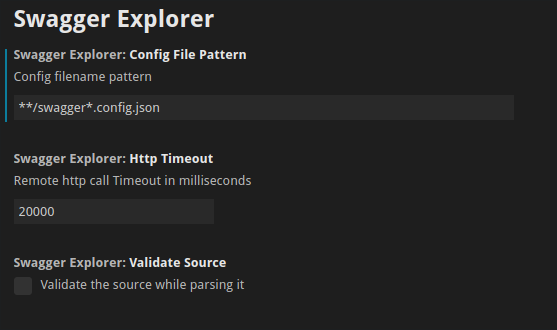
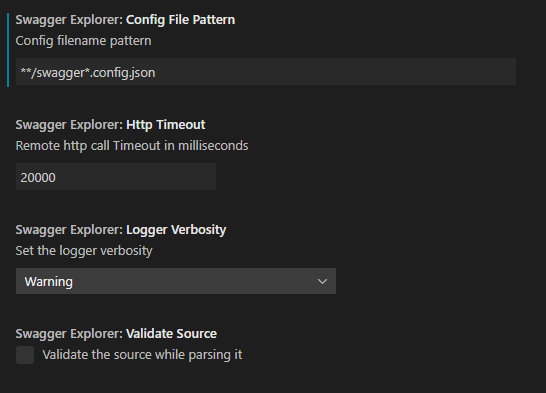
some better things
Sorting some tree lists

This commit adds sorting feature for Dto list, Ep list and paths, it resolves the issue #17
changelog updates

future version

logger verbosity implementation

changelog

settings picture and readme

Changed region(s): [[0.0, 0.4242, 0.6227, 0.9394], [0.0, 0.0303, 0.467, 0.3939]]

diff --git a/src/utils/Logger.ts b/src/utils/Logger.ts
@@ -1,12 +1,21 @@
 import * as vs from "vscode";
 
+const configValues = ["Error", "Warning", "Info", "Debug"] as const;
+type cfgLogValues = typeof configValues[number];
+
+function toNumber(value: cfgLogValues): number {
+	return Math.abs(configValues.indexOf(value)); // if index is -1 then use the value 1 as default;
+}
+
 export class Logger {
-	static readonly INFO: "INFO" = "INFO";
-	static readonly WARN: "WARN" = "WARN";
-	static readonly ERR: "ERR" = "ERR";
+	static readonly INFO: typeof configValues[0] = configValues[0];
+	static readonly WARN: typeof configValues[1] = configValues[1];
+	static readonly ERR: typeof configValues[2] = configValues[2];
+	static readonly DEBUG: typeof configValues[3] = configValues[3];
 
 	private static loggerInstance: Logger;
 	private outputChannel: vs.OutputChannel;
+
 	private constructor() {
 		this.outputChannel = vs.window.createOutputChannel("Swagger Explorer");
 		this.outputChannel.show(true);
@@ -18,12 +27,14 @@ export class Logger {
 		return Logger.loggerInstance;
 	}
 
-	Log(
-		message: string,
-		Level: typeof Logger.INFO | typeof Logger.ERR | typeof Logger.WARN = Logger.INFO,
-		newline: boolean = false
-	) {
+	Log(message: string, Level: cfgLogValues, newline: boolean = false) {
 		const msg = `${message}`;
+		const verbosity = vs.workspace.getConfiguration("swaggerExplorer").get<cfgLogValues>("loggerVerbosity") ?? "Warning";
+		if (toNumber(verbosity) < toNumber(Level)) {
+			console.log(msg);
+			return;
+		}
+
 		try {
 			if (newline) {
 				this.outputChannel.appendLine(msg);

diff --git a/src/swagger/TreeDataProvider.ts b/src/swagger/TreeDataProvider.ts
@@ -4,7 +4,7 @@ import { TreeItemProject } from "./TreeItem.project";
 import { CacheManager } from "../cache/manager";
 import { Logger } from "../utils/Logger";
 import { TreeItemConfig } from "./TreeItem.config";
-import { TreeItemSource } from "./TreeItem.source";
+
 export class SwaggerTreeDataProvider implements vscode.TreeDataProvider<TreeItemBase> {
 	private roots: TreeItemBase[] = [];
 	private requireReload: boolean = true;
@@ -36,7 +36,7 @@ export class SwaggerTreeDataProvider implements vscode.TreeDataProvider<TreeItem
 		if (!(arg0 instanceof TreeItemProject) && !(arg0 instanceof TreeItemConfig)) {
 			return;
 		}
-		let config: TreeItemConfig | undefined = undefined;
+		let config: TreeItemConfig | undefined;
 		if (arg0 instanceof TreeItemProject) {
 			await arg0.refreshChildren();
 			if (arg0.CfgFiles.length === 1) {
@@ -65,7 +65,7 @@ export class SwaggerTreeDataProvider implements vscode.TreeDataProvider<TreeItem
 		if (type == null) {
 			return;
 		}
-		let path: string | undefined = undefined;
+		let path: string | undefined;
 		if (type === "Remote") {
 			path = await vscode.window.showInputBox({
 				prompt: "What is the " + (type === "Remote" ? "URL" : "path") + " of source?"

diff --git a/src/swagger/TreeItem.section.ep.ts b/src/swagger/TreeItem.section.ep.ts
@@ -2,7 +2,7 @@ import { TreeItemBase, ContextValues } from "./TreeItem.base";
 import { OpenAPIV3 } from "openapi-types";
 import { TreeItemCollapsibleState } from "vscode";
 import { TreeItemTag } from "./TreeItem.tag";
-import { uniq } from "lodash";
+import { uniq, sortBy } from "lodash";
 import { extractTagsFromOperations } from "../utils/Doc";
 import * as path from "path";
 import { currentExtensionPath } from "../config/Config";
@@ -38,7 +38,7 @@ export class TreeItemSectionEP extends TreeItemBase {
 				return new TreeItemTag(this, this.doc, f);
 			}) || [];
 
-		tags = tags.concat(tagStr.map(s => new TreeItemTag(this, this.doc, { name: s, description: s })));
+		tags = sortBy(tags.concat(tagStr.map(s => new TreeItemTag(this, this.doc, { name: s, description: s }))), s => s.label);
 
 		return tags;
 	}

diff --git a/src/swagger/TreeItem.section.dto.ts b/src/swagger/TreeItem.section.dto.ts
@@ -5,6 +5,7 @@ import * as path from "path";
 import { toKeyValuePair } from "../utils/Doc";
 import { TreeItemAny } from "./TreeItem.any";
 import { currentExtensionPath } from "../config/Config";
+import { sortBy } from "lodash";
 
 export class TreeItemSectionDto extends TreeItemBase {
 	public get contextValue(): ContextValues {
@@ -27,7 +28,7 @@ export class TreeItemSectionDto extends TreeItemBase {
 		return this.parent;
 	}
 	async refreshChildren(): Promise<TreeItemBase[]> {
-		return toKeyValuePair(this.doc.components?.schemas).map(kvp => new TreeItemAny(kvp.key, kvp.value, this.doc));
+		return sortBy(toKeyValuePair(this.doc.components?.schemas).map(kvp => new TreeItemAny(kvp.key, kvp.value, this.doc)), s => s.label);
 	}
 
 }

diff --git a/src/swagger/TreeItem.tag.ts b/src/swagger/TreeItem.tag.ts
@@ -5,6 +5,7 @@ import * as path from "path";
 import { toKeyValuePair, getReference } from "../utils/Doc";
 import { TreeItemPath } from "./TreeItem.path";
 import { currentExtensionPath } from "../config/Config";
+import { sortBy } from "lodash";
 
 export class TreeItemTag extends TreeItemBase {
 	public get contextValue(): ContextValues {
@@ -41,7 +42,7 @@ export class TreeItemTag extends TreeItemBase {
 			.map((a, kvp) => {
 				return new TreeItemPath(this, a.key, a.value, this.tag.name, this.doc);
 			}, [] as Array<TreeItemPath>);
-		return paths;
+		return sortBy(paths, p => p.label);
 	}
 }
 

diff --git a/src/extension.ts b/src/extension.ts
@@ -9,7 +9,7 @@ import { CacheManager } from "./cache/manager";
 export function activate(context: vscode.ExtensionContext) {
 	// Use the console to output diagnostic information (console.log) and errors (console.error)
 	// This line of code will only be executed once when your extension is activated
-	Logger.Current.Log("Welcome to Swagger Explorer!", undefined, true);
+	Logger.Current.Log("Welcome to Swagger Explorer!", "Info", true);
 
 	const cache = new CacheManager(context);
 	CacheManager.SetCurrent(cache);

diff --git a/webpack.config.js b/webpack.config.js
@@ -1,3 +1,5 @@
+/* jshint esversion: 6 */
+
 const path = require('path');
 const webpack = require('webpack');
 

diff --git a/CHANGELOG.md b/CHANGELOG.md
@@ -1,27 +1,35 @@
 # Change Log
 
-All notable changes to the "swagger-explorer" extension will be documented in this file.
+All notable changes to the `swagger-explorer` extension will be documented in this file.
 
-Check [Keep a Changelog](http://keepachangelog.com/) for recommendations on how to structure this file.
+## [0.1.0] Future
+
+* [ ] [Refresh per source](https://github.com/dardino/vscode-swagger-explorer/issues/11)
+* [ ] [Swagger JSON validation](https://github.com/dardino/vscode-swagger-explorer/issues/12)
+
+## [0.0.9] March 2020
+
+* [x] [Sorting features](https://github.com/dardino/vscode-swagger-explorer/issues/17)
+* [x] [Contribution for logger verbosity](https://github.com/dardino/vscode-swagger-explorer/issues/16)
 
 ## [0.0.8] - 2020-01-16
 
-- Add new source button
-- Multiple config file in the same project now have different tree items
+* Add new source button
+* Multiple config file in the same project now have different tree items
 
 ## [0.0.7] - 2020-01-13
 
-- [Swagger json are now cached](https://github.com/dardino/vscode-swagger-explorer/pull/14)
+* [Swagger json are now cached](https://github.com/dardino/vscode-swagger-explorer/pull/14)
 
 ## [0.0.5] - 2019-12-17
 
-- [Support for multiple config file pattern](https://github.com/dardino/vscode-swagger-explorer/pull/8)
+* [Support for multiple config file pattern](https://github.com/dardino/vscode-swagger-explorer/pull/8)
 
 ## [0.0.4] - 2019-12-16
 
-- Added support for source validation
-- [README.MD](README.md) updated
+* Added support for source validation
+* [README.MD](README.md) updated
 
 ## [Unreleased]
 
-- Swagger Explorer Tree
+* Swagger Explorer Tree

diff --git a/README.md b/README.md
@@ -47,6 +47,7 @@ This extension contributes the following settings:
 - `swaggerExplorer.configFilePattern`: pattern to find the config file in the project, now supports multiple files: `**/swaggerexplorer.config.json;**/swexp.config.json`
 - `swaggerExplorer.httpTimeout`: milliseconds to timeout http(s) calls
 - `swaggerExplorer.validateSource`: a boolean that tells parser to validate the source during parsing
+- `swaggerExplorer.loggerVerbosity`: sets the verbosity for the output panel logs
 
 This extension works with OpenAPI v3 documents and uses the `swagger2openapi` npm library to convert swagger v2 json into OpenAPI v3 document.
 
@@ -65,8 +66,17 @@ dependencies defined in package.json:
 | [swagger2openapi](https://www.npmjs.com/package/swagger2openapi) | 5.3.1 |
 | [openapi-types](https://www.npmjs.com/package/openapi-types) | 1.3.5 |
 
-
 ## Release Notes
+
+## 0.0.9
+
+- Configurable logger verbosity
+- Sorted tree items
+
+## 0.0.8
+
+- Add new source button
+- Multiple config file in the same project now have different tree items
 
 ### 0.0.7
 
